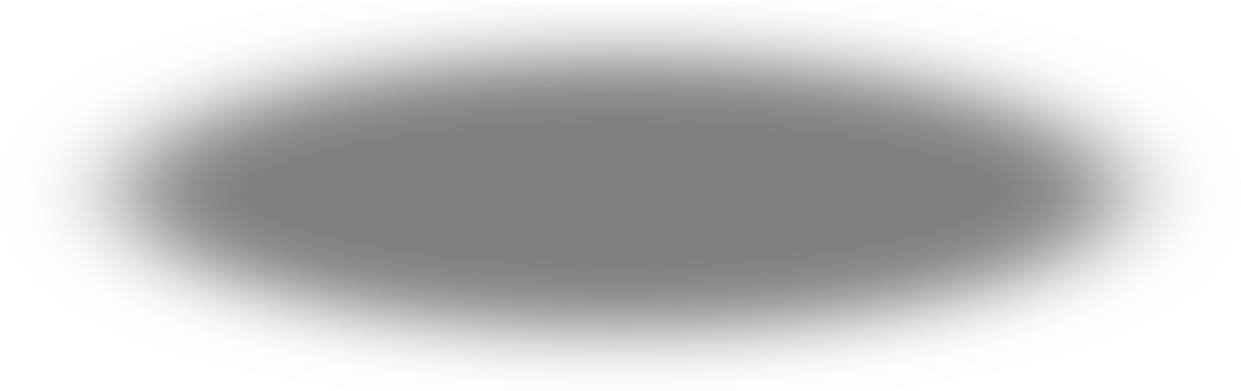
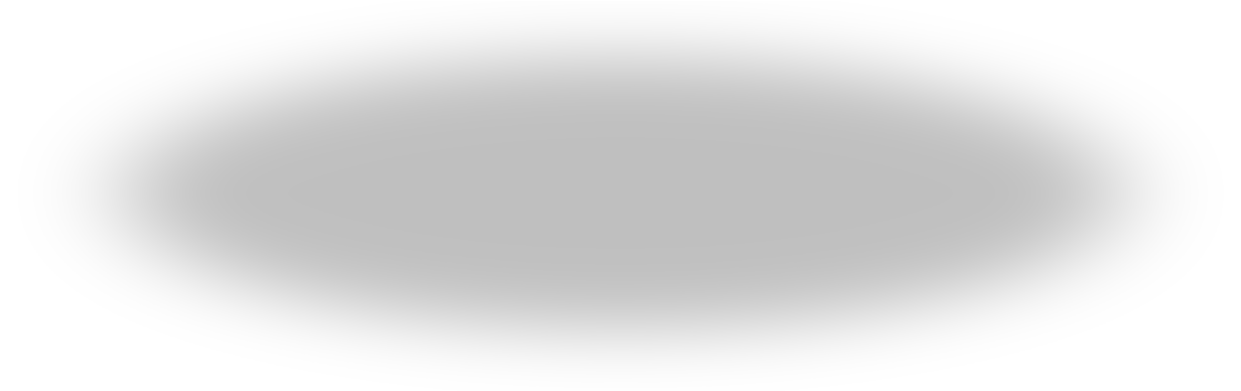
added and positioned shadow for first card

diff --git a/frontend/src/Views/Leaderboard.tsx b/frontend/src/Views/Leaderboard.tsx
@@ -40,7 +40,7 @@ const Leaderboard = (
     // </div>
     // </div>
     // </div>
-    <div className="w-full min-h-screen bg-[#C0395A]">
+    <div style={{backgroundImage: `url(${shadow})`}} className="w-full min-h-screen bg-[#C0395A] bg-no-repeat object-cover bg-size-[auto_150px] bg-[19%_60%]">
         <Link to="/dashboard" className="text-[#530A24] font-[var(--font)] text-[32px] font-semibold ml-5">← Back</Link>
         <h1 className="text-[60px] text-[#FFDBE4] text-center -mt-1 mr-230 font-[var(--font)] font-semibold drop-shadow-[4px_4px_0px_rgba(0,0,0,0.25)]">Leader Board</h1>
         
